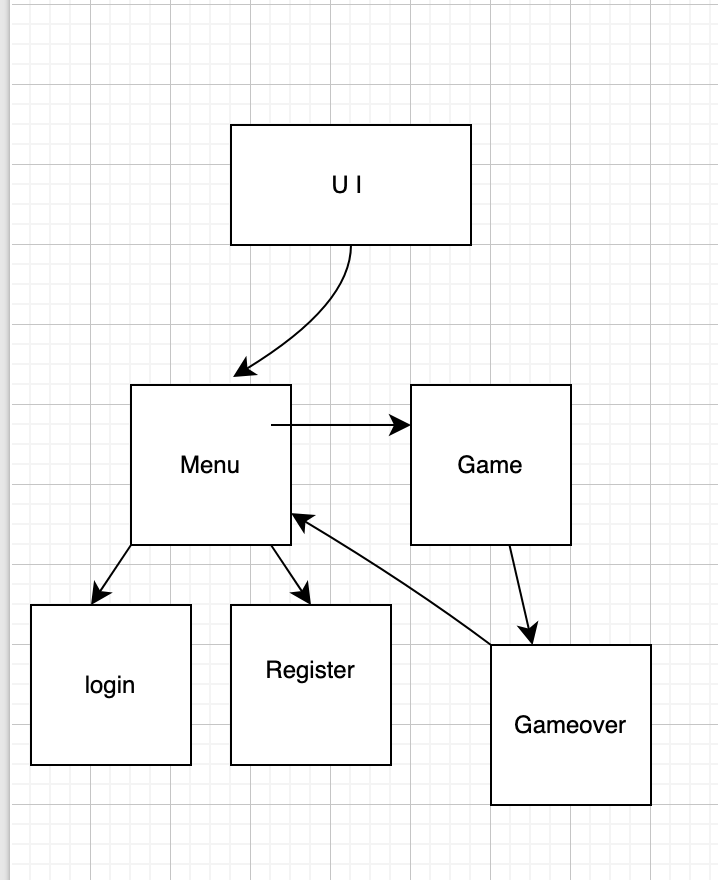
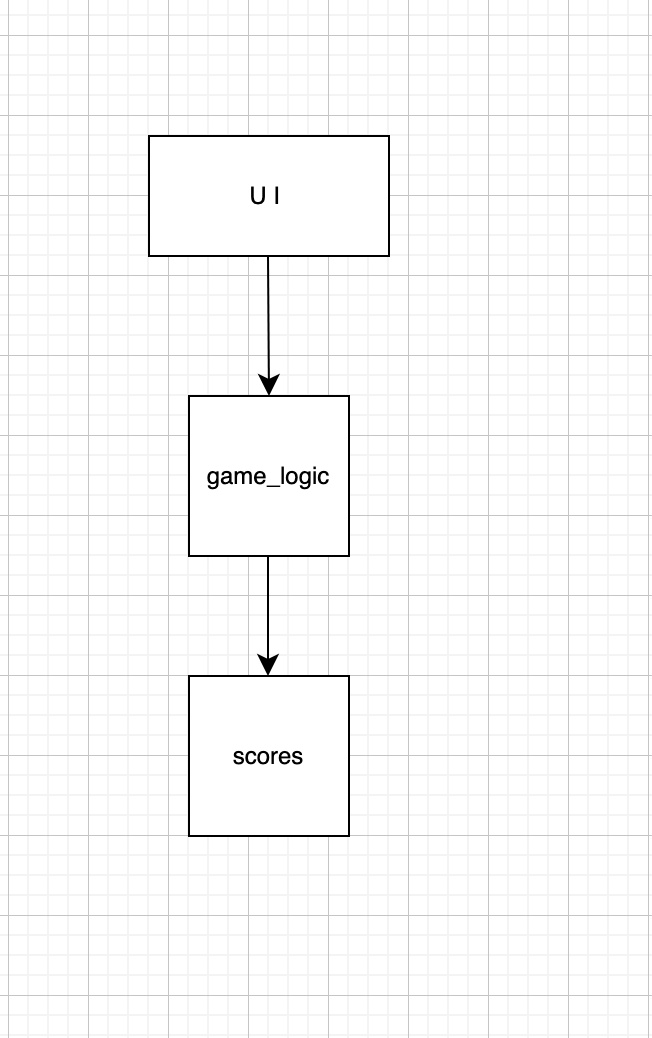
Siirretty top5 haku sekä lisätty arkkitehtuuriin uusi kuva

diff --git a/Visailupeli/src/scores/scores.py b/Visailupeli/src/scores/scores.py
@@ -17,3 +17,11 @@ def save_scores(username, score):
 
     with open("src/scores/scores.json", "w", encoding="utf=8") as file:
         json.dump(scores, file)
+
+def get_top5_scores():
+    scores = get_scores()
+    return sorted(
+        scores,
+        key = lambda score: score ["score"],
+        reverse=True)[:5]
+    

diff --git a/Visailupeli/src/ui/game.py b/Visailupeli/src/ui/game.py
@@ -58,6 +58,7 @@ class Game:
         )
             self.answers.append(answer)
             self.answer_vars.append(variable)
+
     def show_answers(self):
         """Show answer button"""
         i = 0
@@ -172,3 +173,4 @@ class Game:
         self.frame.grid(row=0, column = 0)
         for column in range(5):
             self.frame.grid_columnconfigure(column, weight=1, minsize=150)
+            